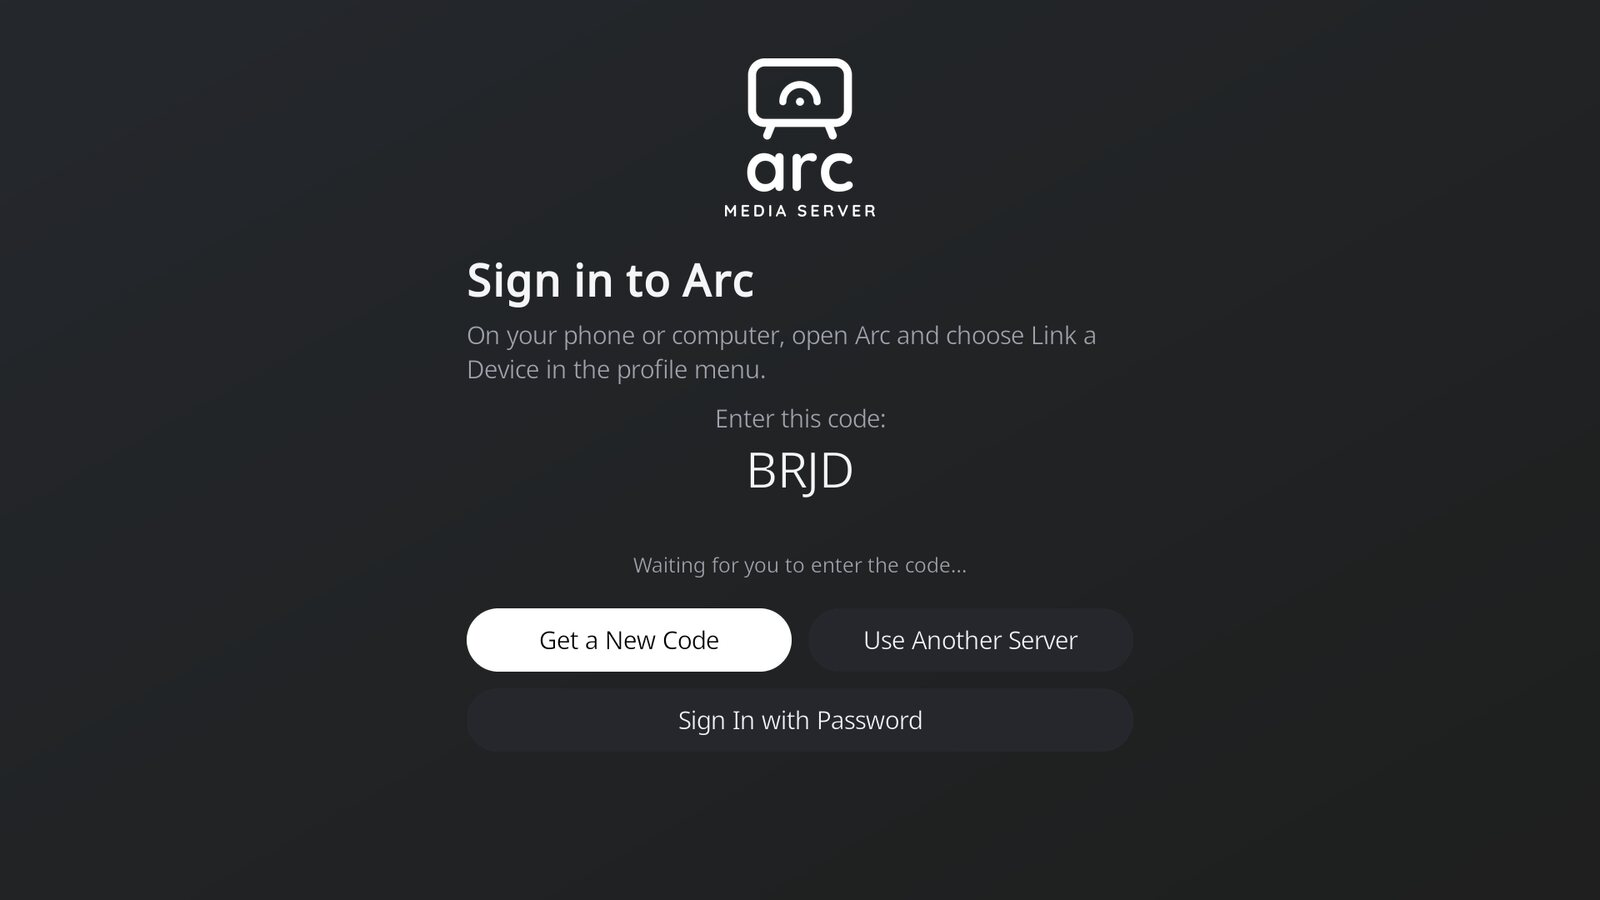
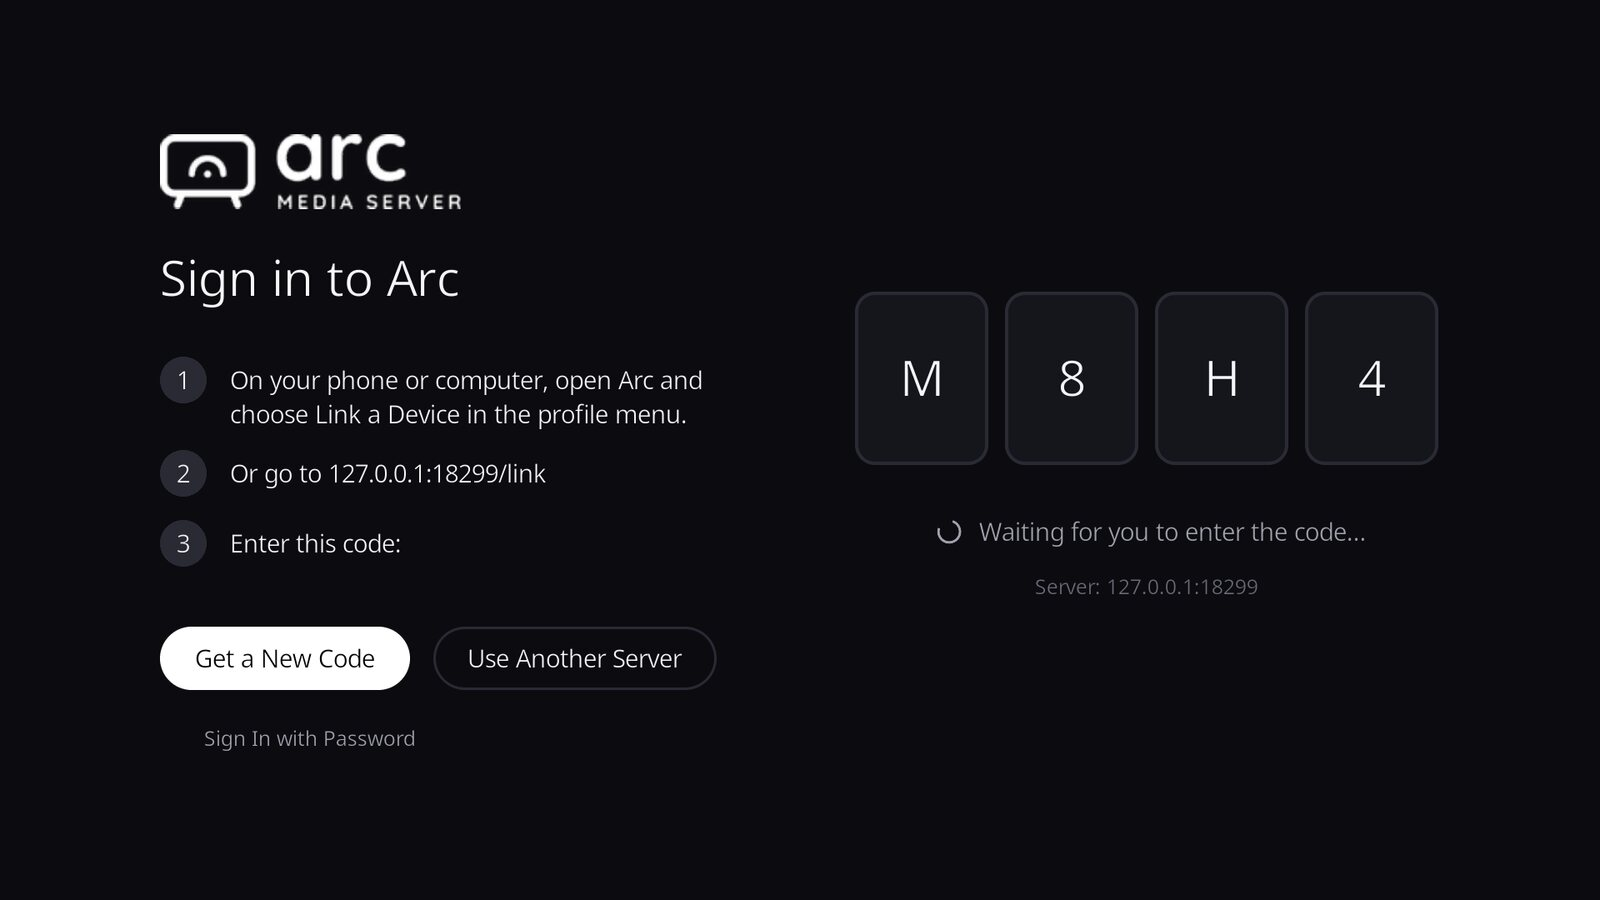
Retake the README screenshots (#49)
Retakes the nine README screenshots from main with tools/readme_shots.py
against the shared screenshot library, so they show the visual batches'
look (no grey background) and the Show missing episodes setting.

diff --git a/docs/changes/2026-11-21-readme-screenshots.md b/docs/changes/2026-11-21-readme-screenshots.md
@@ -1,0 +1,16 @@
+# README screenshots retaken
+
+The nine README screenshots in `docs/screenshots/` are retaken from main after the four visual
+batches (#44–#47) and the Show missing episodes setting (#48). The old ones still showed the
+grey background and the earlier sign-in, profiles and Settings screens.
+
+## Checks
+
+- One run of `tools/readme_shots.py` in Kodi 20.5 under Xvfb, with a fresh Kodi profile, against
+  arc-media-server's shared screenshot library (`web/tools/screenshots.mjs --serve`, a scratch
+  server on this machine). Each picture was checked by eye; none needed fixing.
+- No code changed, so no tests were run. Not tried on real hardware.
+
+## Logging
+
+None: pictures only.
